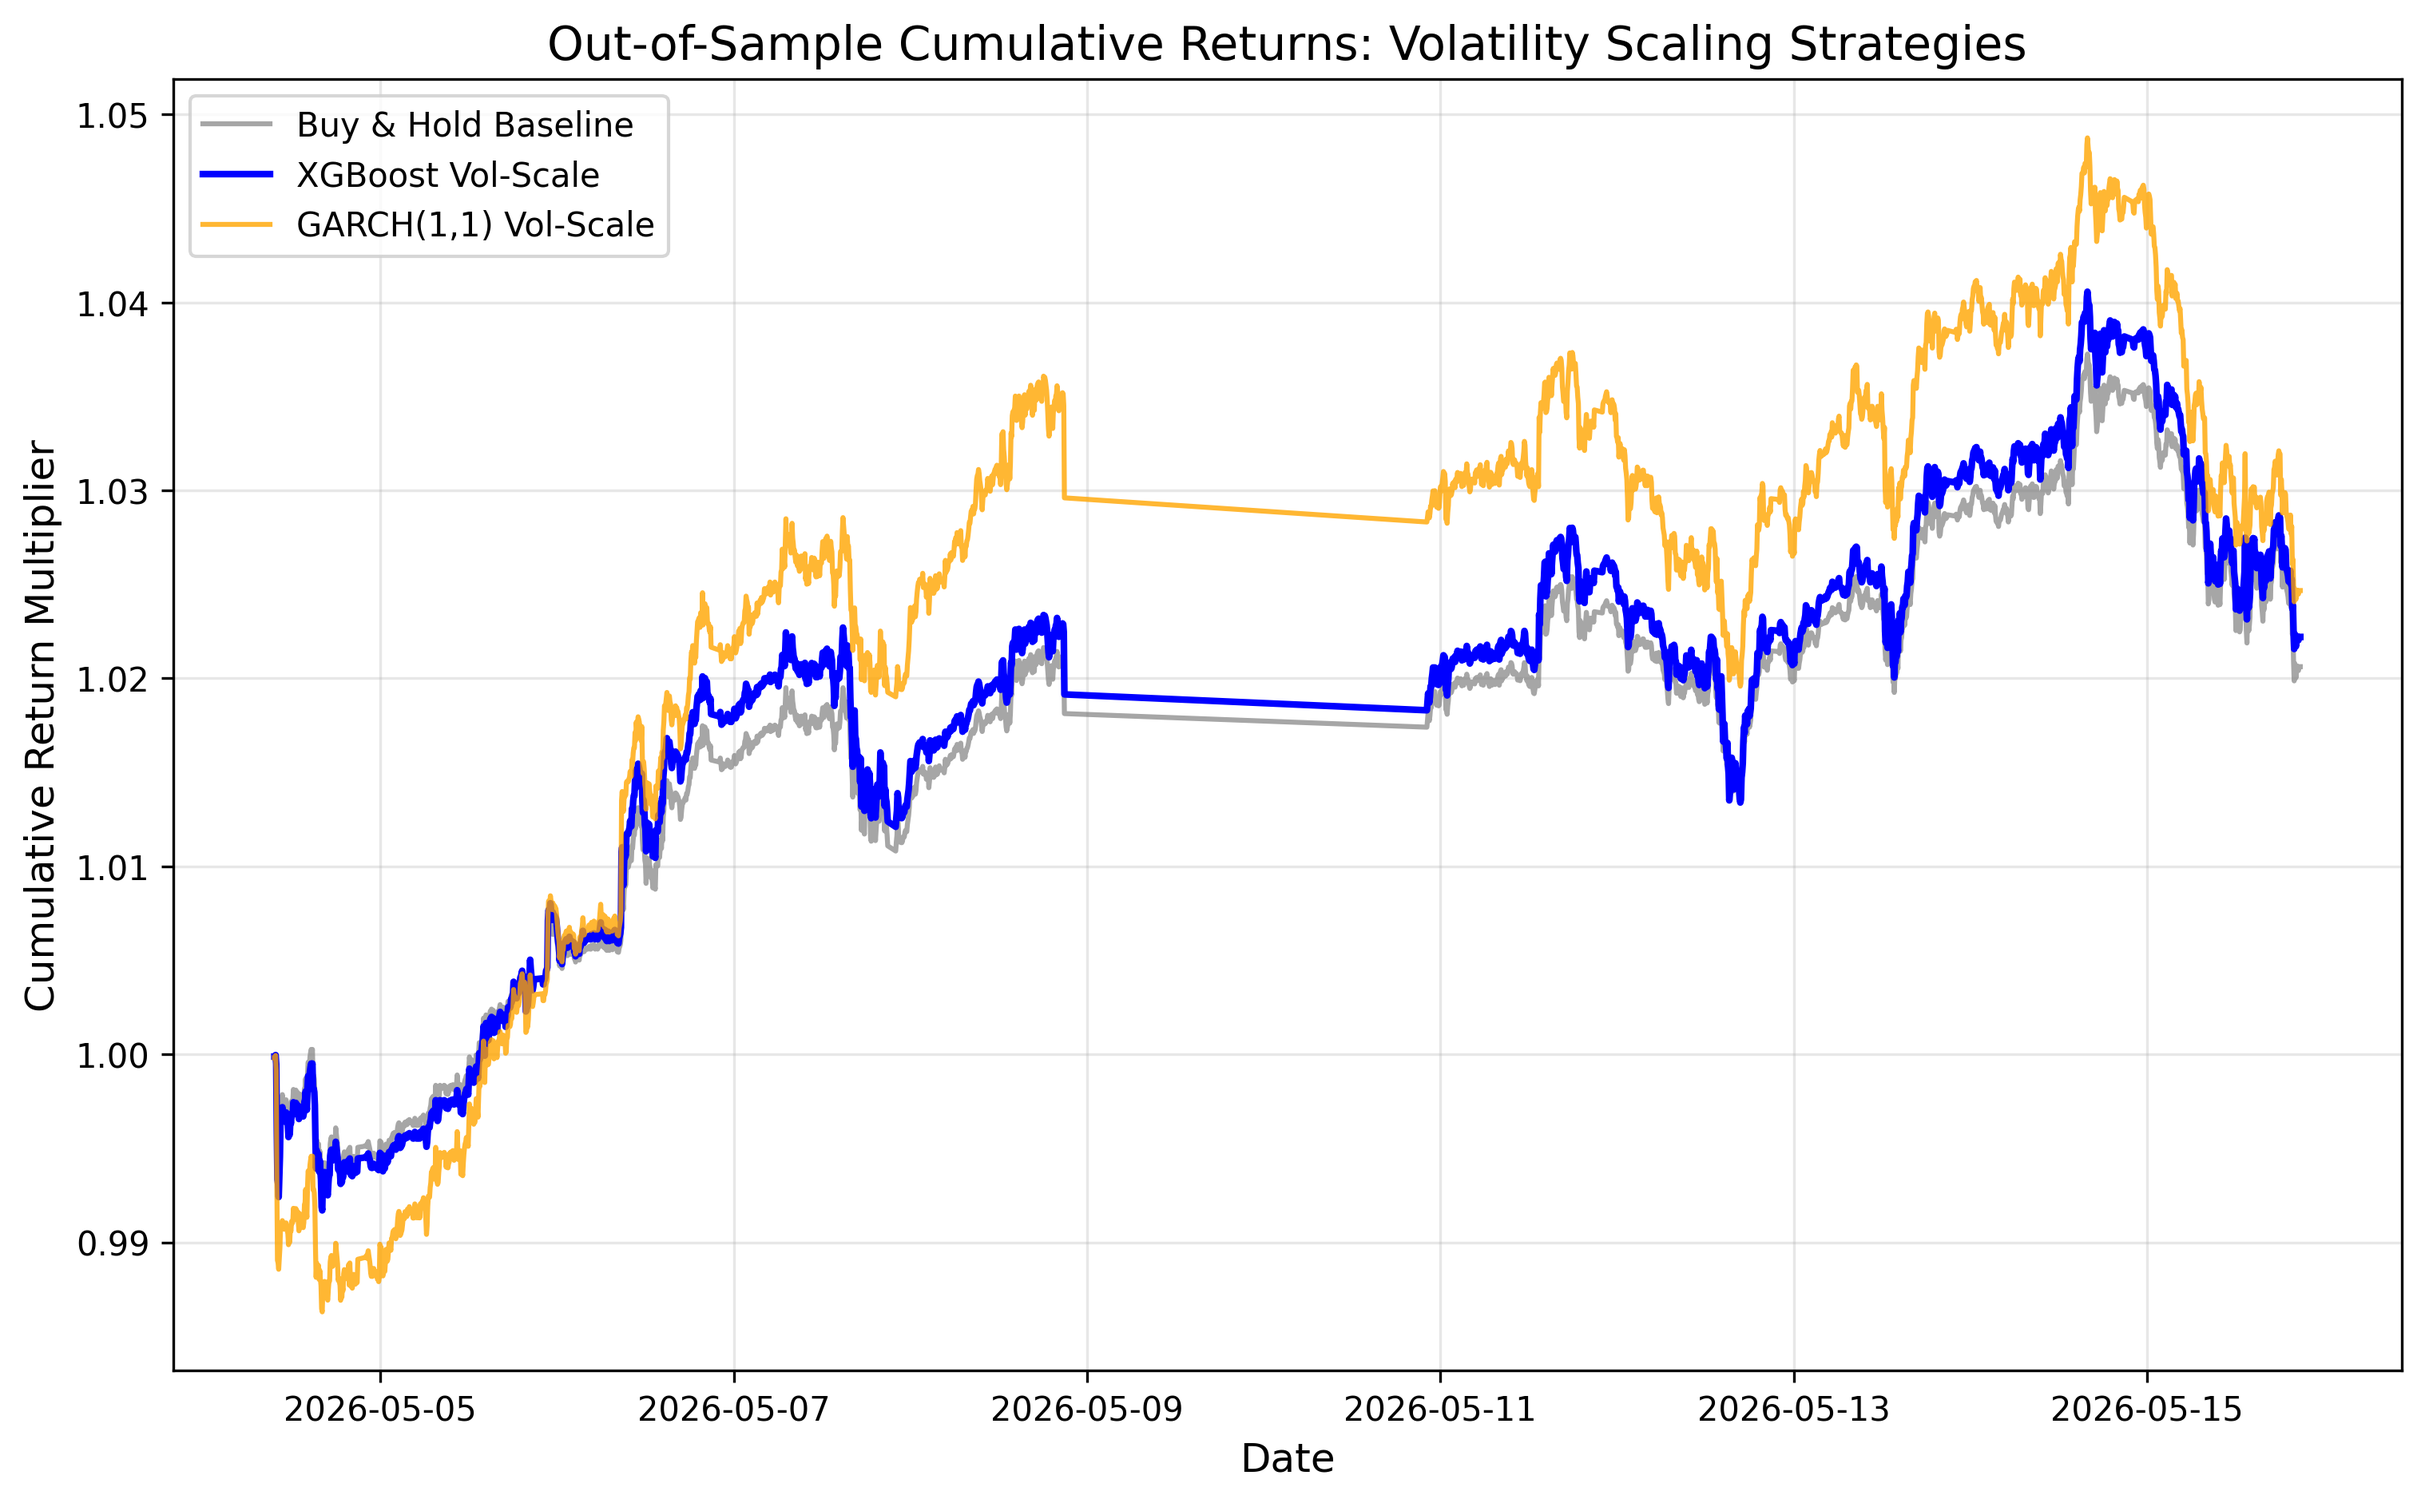
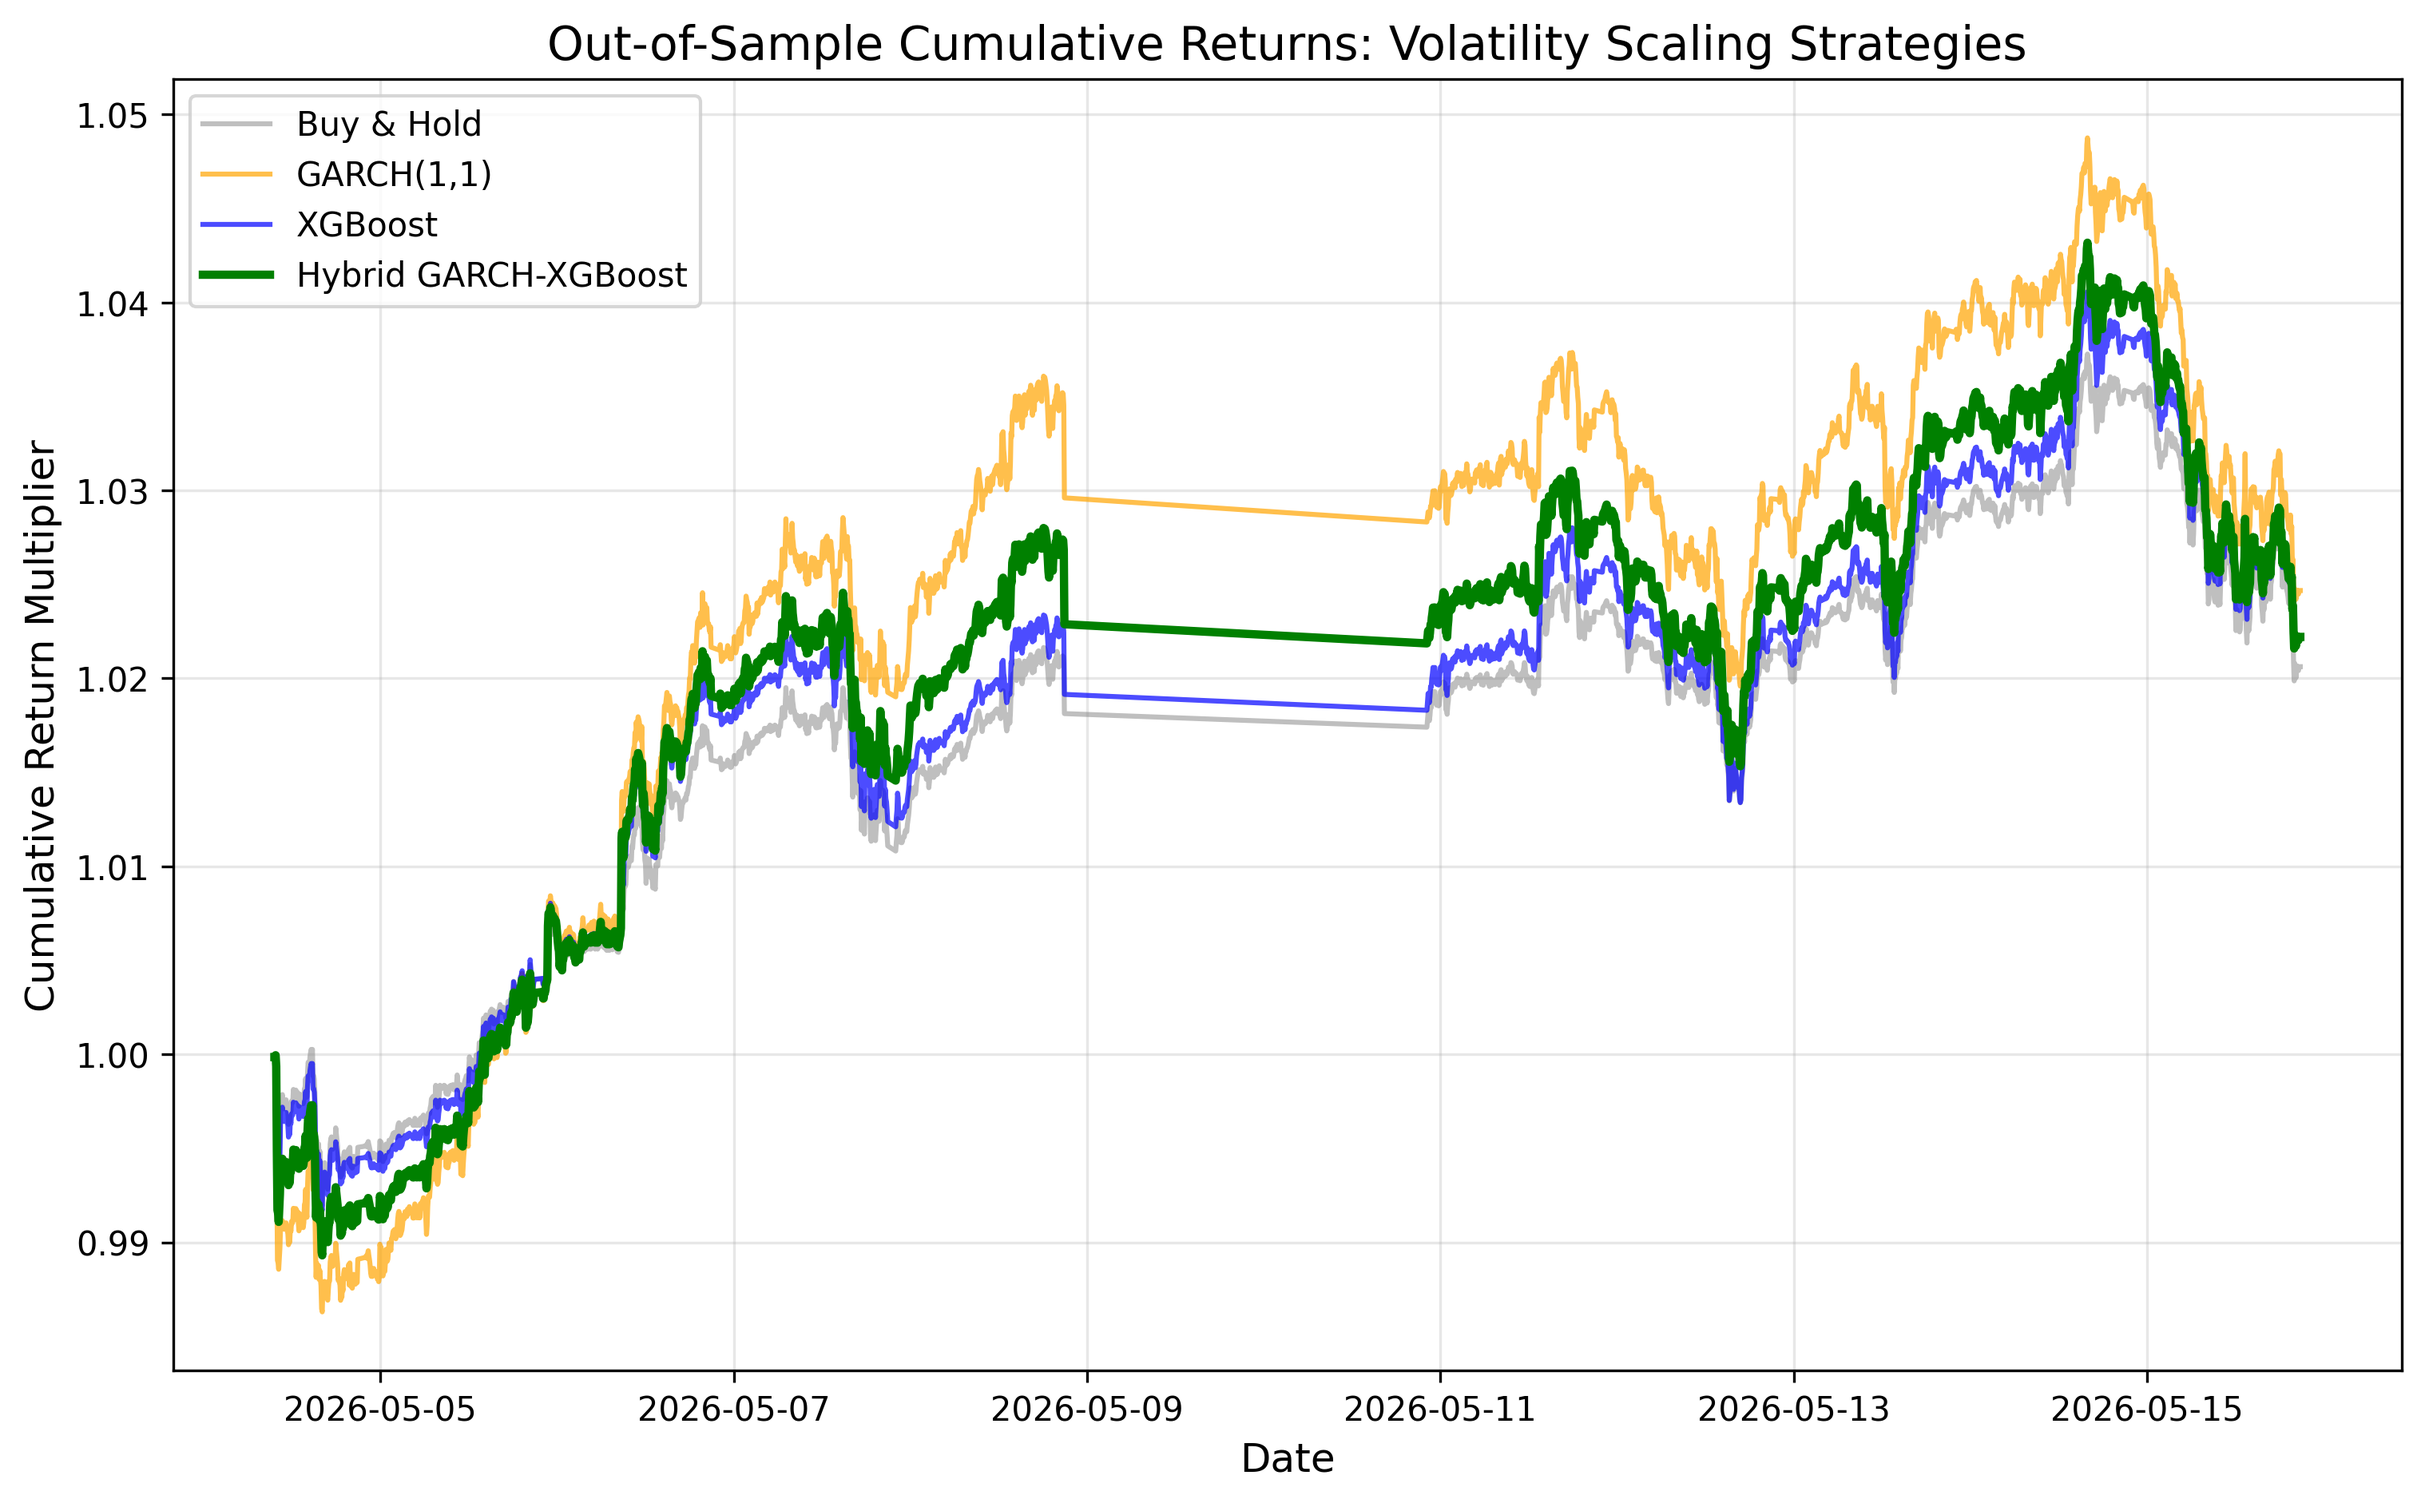
Implement and backtest Hybrid GARCH-XGBoost Ensemble strategy

Changed region(s): [[0.0929, 0.0925, 0.9598, 0.8629], [0.0619, 0.0616, 0.2787, 0.2157]]

diff --git a/src/audit_script.py b/src/audit_script.py
@@ -1,0 +1,153 @@
+import os
+import sys
+import numpy as np
+import pandas as pd
+import warnings
+warnings.filterwarnings("ignore")
+
+from data_pipeline import fetch_data, clean_missing_ticks, calculate_rolling_rv
+from xgboost_model import generate_features
+from financial_backtest import run_financial_backtest
+
+bars_per_year = 252 * 288
+
+def calc_sharpe(returns):
+    std = np.std(returns)
+    if std == 0: return 0
+    return (np.mean(returns) / std) * np.sqrt(bars_per_year)
+
+def calc_ann_vol(returns):
+    return np.std(returns) * np.sqrt(bars_per_year)
+
+def calc_max_dd(returns):
+    cum = (1 + pd.Series(returns)).cumprod()
+    running_max = cum.cummax()
+    dd = (cum - running_max) / running_max
+    return dd.min()
+
+def calc_ann_ret(returns):
+    return (1 + np.mean(returns)) ** bars_per_year - 1
+
+def block_bootstrap(returns_A, returns_B, block_size=288, n_bootstraps=1000):
+    n = len(returns_A)
+    diffs = []
+    
+    returns_A = np.array(returns_A)
+    returns_B = np.array(returns_B)
+    np.random.seed(42)
+    for _ in range(n_bootstraps):
+        num_blocks = int(np.ceil(n / block_size))
+        start_indices = np.random.randint(0, n - block_size + 1, num_blocks)
+        
+        boot_A = []
+        boot_B = []
+        for idx in start_indices:
+            boot_A.extend(returns_A[idx:idx+block_size])
+            boot_B.extend(returns_B[idx:idx+block_size])
+            
+        boot_A = np.array(boot_A[:n])
+        boot_B = np.array(boot_B[:n])
+        
+        diffs.append(calc_sharpe(boot_A) - calc_sharpe(boot_B))
+        
+    return np.percentile(diffs, [2.5, 97.5])
+
+def run_audit():
+    print("STEP 1: Load and inspect...")
+    raw_data = fetch_data(ticker="ES=F", period="59d", interval="5m")
+    
+    start_date = raw_data.index.min()
+    end_date = raw_data.index.max()
+    print(f"Date Range: {start_date} to {end_date}")
+    
+    cleaned_data = clean_missing_ticks(raw_data)
+    base_data = calculate_rolling_rv(cleaned_data, window=288)
+    feature_df = generate_features(base_data).dropna()
+    total_bars = len(feature_df)
+    print(f"Total Bars (after cleaning/feature gen): {total_bars}")
+    
+    split_idx = int(total_bars * 0.8)
+    test_bars = total_bars - split_idx
+    print(f"Train/Test split: 80/20")
+    print(f"Test Set Bars: {test_bars}")
+
+    print("\nSTEP 2 & 3: Run pipeline and extract results...")
+    df = run_financial_backtest(return_results=True)
+    
+    # Check if df length matches test_bars, it should
+    assert len(df) == test_bars
+    
+    def get_full_stats(returns):
+        return {
+            'Ann_Ret': calc_ann_ret(returns),
+            'Ann_Vol': calc_ann_vol(returns),
+            'Sharpe': calc_sharpe(returns),
+            'Max_DD': calc_max_dd(returns)
+        }
+    
+    stats_full = {
+        'BnH': get_full_stats(df['BnH_Returns']),
+        'GARCH': get_full_stats(df['GARCH_Returns']),
+        'XGB': get_full_stats(df['XGB_Returns']),
+        'Hybrid': get_full_stats(df['Hybrid_Returns'])
+    }
+    
+    threshold = df['Actual_RV'].quantile(0.80)
+    high_vol_df = df[df['Actual_RV'] >= threshold]
+    high_vol_bars = len(high_vol_df)
+    
+    def get_sub_stats(returns):
+        return {
+            'Ann_Ret': calc_ann_ret(returns),
+            'Sharpe': calc_sharpe(returns)
+        }
+    
+    stats_sub = {
+        'BnH': get_sub_stats(high_vol_df['BnH_Returns']),
+        'GARCH': get_sub_stats(high_vol_df['GARCH_Returns']),
+        'XGB': get_sub_stats(high_vol_df['XGB_Returns']),
+        'Hybrid': get_sub_stats(high_vol_df['Hybrid_Returns'])
+    }
+    
+    print("\nSTEP 4: Bootstrap...")
+    ci = block_bootstrap(df['XGB_Returns'], df['GARCH_Returns'])
+    actual_diff = calc_sharpe(df['XGB_Returns']) - calc_sharpe(df['GARCH_Returns'])
+    sig = "Yes" if ci[0] > 0 else "No"
+    
+    print("\nGenerating Output Table...")
+    
+    print(f"| Metric | Full Test Window | High-Vol Subsample (Top 20%) |")
+    print(f"|--------|------------------|------------------------------|")
+    print(f"| **Buy & Hold** | | |")
+    print(f"| - Sharpe | {stats_full['BnH']['Sharpe']:.4f} | {stats_sub['BnH']['Sharpe']:.4f} |")
+    print(f"| - Ann. Return | {stats_full['BnH']['Ann_Ret']:.2%} | {stats_sub['BnH']['Ann_Ret']:.2%} |")
+    print(f"| - Ann. Volatility | {stats_full['BnH']['Ann_Vol']:.2%} | N/A |")
+    print(f"| - Max DD | {stats_full['BnH']['Max_DD']:.2%} | N/A |")
+    
+    print(f"| **GARCH Vol-Target** | | |")
+    print(f"| - Sharpe | {stats_full['GARCH']['Sharpe']:.4f} | {stats_sub['GARCH']['Sharpe']:.4f} |")
+    print(f"| - Ann. Return | {stats_full['GARCH']['Ann_Ret']:.2%} | {stats_sub['GARCH']['Ann_Ret']:.2%} |")
+    print(f"| - Ann. Volatility | {stats_full['GARCH']['Ann_Vol']:.2%} | N/A |")
+    print(f"| - Max DD | {stats_full['GARCH']['Max_DD']:.2%} | N/A |")
+    
+    print(f"| **XGBoost Vol-Target** | | |")
+    print(f"| - Sharpe | {stats_full['XGB']['Sharpe']:.4f} | {stats_sub['XGB']['Sharpe']:.4f} |")
+    print(f"| - Ann. Return | {stats_full['XGB']['Ann_Ret']:.2%} | {stats_sub['XGB']['Ann_Ret']:.2%} |")
+    print(f"| - Ann. Volatility | {stats_full['XGB']['Ann_Vol']:.2%} | N/A |")
+    print(f"| - Max DD | {stats_full['XGB']['Max_DD']:.2%} | N/A |")
+    
+    print(f"| **Hybrid GARCH-XGBoost** | | |")
+    print(f"| - Sharpe | {stats_full['Hybrid']['Sharpe']:.4f} | {stats_sub['Hybrid']['Sharpe']:.4f} |")
+    print(f"| - Ann. Return | {stats_full['Hybrid']['Ann_Ret']:.2%} | {stats_sub['Hybrid']['Ann_Ret']:.2%} |")
+    print(f"| - Ann. Volatility | {stats_full['Hybrid']['Ann_Vol']:.2%} | N/A |")
+    print(f"| - Max DD | {stats_full['Hybrid']['Max_DD']:.2%} | N/A |")
+    
+    print(f"| **Test Bars** | {test_bars} | {high_vol_bars} |")
+    
+    print("\n**Statistical Significance Check:**")
+    print(f"- XGBoost vs GARCH Sharpe Spread (full window): {actual_diff:.4f}")
+    print(f"- Bootstrap 95% CI: [{ci[0]:.4f}, {ci[1]:.4f}]")
+    print(f"- Statistically significant? {sig}")
+
+if __name__ == '__main__':
+    run_audit()

diff --git a/src/financial_backtest.py b/src/financial_backtest.py
@@ -77,40 +77,32 @@ def run_financial_backtest(return_results=False):
     X_test = test_df[feature_cols].values
     
     # Returns aligned with Target_RV (which is t+1)
-    # Target_RV is Realized_Volatility.shift(-1)
-    # The actual return realized at t+1 is Returns.shift(-1)
-    # We will use the model's prediction at t to position for t+1.
     actual_returns_test = test_df['Returns'].shift(-1).fillna(0).values
     
-    print("\nTraining XGBoost Model...")
+    print("Training GARCH(1,1) Baseline (used as standalone and feature)...")
+    train_returns_scaled = 100.0 * train_df['Returns']
+    garch_model = arch_model(train_returns_scaled, vol='Garch', p=1, q=1, mean='Zero', rescale=False)
+    fitted_garch = garch_model.fit(disp='off')
+    
+    full_returns_scaled = 100.0 * feature_df['Returns']
+    full_garch_eval = arch_model(full_returns_scaled, vol='Garch', p=1, q=1, mean='Zero', rescale=False)
+    fixed_res = full_garch_eval.fix(fitted_garch.params)
+    
+    cond_vol_scaled = fixed_res.conditional_volatility.values
+    garch_forecasts_full = (cond_vol_scaled / 100.0) * np.sqrt(288)
+    garch_forecasts = garch_forecasts_full[split_idx:]
+    
+    print("\nTraining XGBoost Model (Standalone)...")
     xgb_model = xgb.XGBRegressor(
         n_estimators=100, max_depth=3, learning_rate=0.05, 
         objective=asymmetric_mse_objective, n_jobs=-1, random_state=42
     )
     xgb_model.fit(X_train, y_train)
-    
-    # Predict Volatility for test set
     xgb_forecasts = xgb_model.predict(X_test)
-    
-    print("Training GARCH(1,1) Baseline...")
-    # GARCH is trained on the same training window. We use the Returns from train_df.
-    # Note: arch expects scaled returns to converge well
-    train_returns_scaled = 100.0 * train_df['Returns']
-    garch_model = arch_model(train_returns_scaled, vol='Garch', p=1, q=1, mean='Zero', rescale=False)
-    fitted_garch = garch_model.fit(disp='off')
-    
-    # Generate forecasts for test set using fixed parameters
-    test_returns_scaled = 100.0 * test_df['Returns']
-    # Full dataset needed for fix() to generate continuous conditional volatility
-    full_returns_scaled = 100.0 * feature_df['Returns']
-    full_garch_eval = arch_model(full_returns_scaled, vol='Garch', p=1, q=1, mean='Zero', rescale=False)
-    fixed_res = full_garch_eval.fix(fitted_garch.params)
-    
-    # Get GARCH volatility for the test set period
-    cond_vol_scaled = fixed_res.conditional_volatility.values
-    # Convert per-bar sigma to rolling-RV-equivalent: sigma_t * sqrt(288) / 100
-    garch_forecasts_full = (cond_vol_scaled / 100.0) * np.sqrt(288)
-    garch_forecasts = garch_forecasts_full[split_idx:]
+
+    print("\nCreating Hybrid GARCH-XGBoost Ensemble...")
+    # A robust 50/50 blend of the non-linear ML forecasts and the parametric tail-risk forecasts
+    hybrid_forecasts = 0.5 * xgb_forecasts + 0.5 * garch_forecasts
     
     # ==========================================
     # STRATEGY DESIGN: Volatility Targeting
@@ -130,8 +122,11 @@ def run_financial_backtest(return_results=False):
     garch_strategy_returns = garch_weights * actual_returns_test
     
     # 3. Buy & Hold Strategy
-    # Weight = 1.0 throughout
     bnh_strategy_returns = actual_returns_test
+    
+    # 4. Hybrid XGBoost Vol-Scale Strategy
+    hybrid_weights = np.clip(target_rv / np.maximum(hybrid_forecasts, 1e-6), 0.1, 2.0)
+    hybrid_strategy_returns = hybrid_weights * actual_returns_test
     
     print("\n=============================================")
     print("FINANCIAL VALIDATION: STRATEGY BACKTEST RESULTS")
@@ -140,18 +135,20 @@ def run_financial_backtest(return_results=False):
     calculate_metrics(pd.Series(bnh_strategy_returns), "Buy & Hold Baseline")
     calculate_metrics(pd.Series(garch_strategy_returns), "GARCH(1,1) Baseline")
     calculate_metrics(pd.Series(xgb_strategy_returns), "XGBoost Vol-Scale Strategy")
+    calculate_metrics(pd.Series(hybrid_strategy_returns), "Hybrid GARCH-XGBoost Strategy")
 
     print("\nGenerating equity curves chart...")
     # Plotting
     bnh_cum = (1 + pd.Series(bnh_strategy_returns)).cumprod()
     garch_cum = (1 + pd.Series(garch_strategy_returns)).cumprod()
     xgb_cum = (1 + pd.Series(xgb_strategy_returns)).cumprod()
+    hybrid_cum = (1 + pd.Series(hybrid_strategy_returns)).cumprod()
     
     plt.figure(figsize=(12, 7))
-    # Using index for x-axis. For a real timeline, we would use test_df.index
-    plt.plot(test_df.index, bnh_cum, label='Buy & Hold Baseline', color='gray', alpha=0.7)
-    plt.plot(test_df.index, xgb_cum, label='XGBoost Vol-Scale', color='blue', linewidth=2)
-    plt.plot(test_df.index, garch_cum, label='GARCH(1,1) Vol-Scale', color='orange', alpha=0.8)
+    plt.plot(test_df.index, bnh_cum, label='Buy & Hold', color='gray', alpha=0.5)
+    plt.plot(test_df.index, garch_cum, label='GARCH(1,1)', color='orange', alpha=0.7)
+    plt.plot(test_df.index, xgb_cum, label='XGBoost', color='blue', alpha=0.7)
+    plt.plot(test_df.index, hybrid_cum, label='Hybrid GARCH-XGBoost', color='green', linewidth=2.5)
     
     plt.title("Out-of-Sample Cumulative Returns: Volatility Scaling Strategies", fontsize=14)
     plt.xlabel("Date", fontsize=12)
@@ -169,7 +166,8 @@ def run_financial_backtest(return_results=False):
             'Actual_RV': test_df['Target_RV'].values,
             'BnH_Returns': bnh_strategy_returns,
             'GARCH_Returns': garch_strategy_returns,
-            'XGB_Returns': xgb_strategy_returns
+            'XGB_Returns': xgb_strategy_returns,
+            'Hybrid_Returns': hybrid_strategy_returns
         }, index=test_df.index)
         return results_df
 
